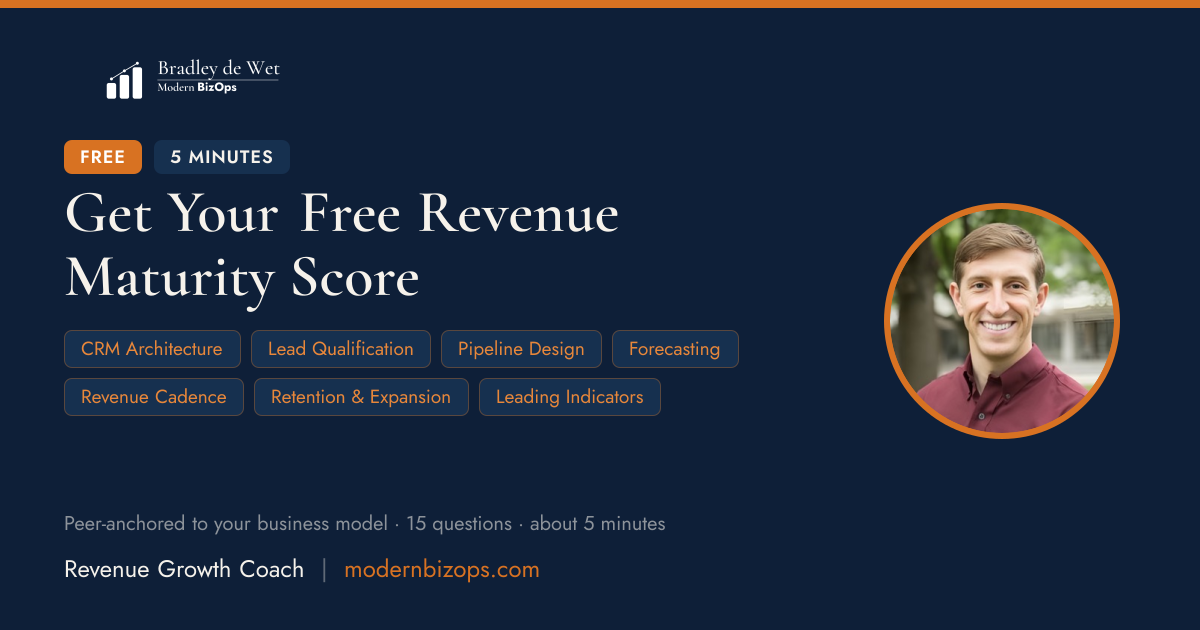
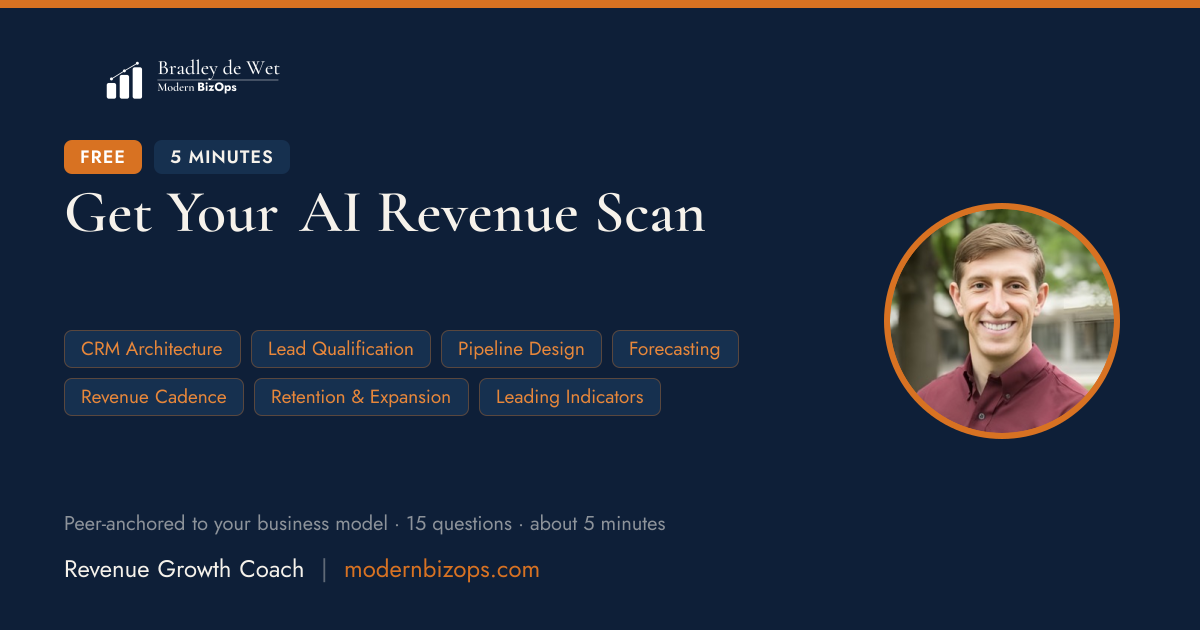
fix(scan): regenerate the share card and cover the restore-discard path
The og-scorecard.png card still read "Get Your Free Revenue Maturity Score",
so every LinkedIn, Slack and X share of the site's primary call to action
rendered the retired product name, and the alt text this branch already
changed contradicted the image it described. The card now reads "Get Your AI
Revenue Scan"; "Free" is carried by the FREE pill above the headline, which is
what keeps it on one line at the default 60px. scorecardCard gained the
headlineSize prop heroCard and learnCard already had, so the next copy change
can tune it without editing the template. The changed flag is back to false,
matching every other card, and only og-scorecard.png differs: the eight other
cards still flagged changed regenerated byte-identical.

QuizFlow's restore-discard branch was new user-affecting behaviour with no
test. Five cases now cover it, including that an already-computed result
survives and that a session with only live answers still resumes untouched.
Both halves were mutation-checked: reverting the option-value check fails one,
removing the discard branch fails two.

Also matches the pricing page to the sitewide "Get the Free Scan" casing, and
updates the api-submit pageName fixture, which modelled a document title the
site can no longer produce.

Changed region(s): [[0.2467, 0.3016, 0.5858, 0.3921], [0.0617, 0.3921, 0.3392, 0.4825], [0.1542, 0.3317, 0.2158, 0.3619]]

diff --git a/__tests__/scorecard/components/QuizFlow.test.jsx b/__tests__/scorecard/components/QuizFlow.test.jsx
@@ -118,3 +118,108 @@ describe('QuizFlow sessionStorage persistence', () => {
     expect(screen.getByText(/Which best describes how your business sells/)).toBeInTheDocument();
   });
 });
+
+// The revenue bands were realigned to the /book set, retiring 3m_7m, 7m_15m and
+// over_15m. A session persisted before that deploy holds a q1 value no option
+// matches, and every ROI generator guards on `if (!revenue) return null`, so
+// resuming onto it would hand the visitor a no-gap result with nothing logged
+// anywhere. These cover the discard path that prevents it.
+describe('QuizFlow restore discards answers on retired option values', () => {
+  const RETIRED_BAND = '7m_15m';
+
+  beforeEach(() => {
+    sessionStorage.clear();
+  });
+
+  it('restarts an in-progress session whose stored revenue band was retired', () => {
+    sessionStorage.setItem(
+      'scorecard:state',
+      JSON.stringify({
+        answers: { q1: { value: RETIRED_BAND }, q2: { value: 'B2B_SAAS' } },
+        step: 'questions',
+        currentIndex: 2,
+      })
+    );
+    render(<QuizFlow utms={{}} />);
+    // Back at q1, not resumed at index 2, and nothing is pre-selected.
+    expect(screen.getByText('Annual revenue')).toBeInTheDocument();
+    expect(screen.getByRole('button', { name: /next/i })).toBeDisabled();
+    for (const radio of screen.getAllByRole('radio')) {
+      expect(radio).not.toBeChecked();
+    }
+  });
+
+  it('does not offer the retired band as an option after the restart', () => {
+    sessionStorage.setItem(
+      'scorecard:state',
+      JSON.stringify({
+        answers: { q1: { value: RETIRED_BAND } },
+        step: 'questions',
+        currentIndex: 0,
+      })
+    );
+    render(<QuizFlow utms={{}} />);
+    const values = screen.getAllByRole('radio').map((r) => r.getAttribute('value'));
+    expect(values).not.toContain(RETIRED_BAND);
+    expect(values).toEqual(['under_1m', '1m_3m', '3m_5m', '5m_15m', '15m_50m', '50m_plus']);
+  });
+
+  it('keeps an already-computed result, which does not depend on the stale answer', () => {
+    const result = {
+      headline: { lead: 'Your operating system is leaving between $1M and $2M on the table this year.', subline: 'subline', floorDollars: 1_000_000, medianDollars: 2_000_000, modelLabel: 'B2B SaaS' },
+      roiLines: [],
+      comparisons: [],
+      placement: { stage: 1, name: 'Reactive', descriptor: 'desc' },
+      nextStage: null,
+      competencyScores: [],
+      binding: null,
+      brightSpots: [],
+      disclosure: 'disclosure',
+      cta: {
+        destination: '/ai-readiness-assessment',
+        heading: 'The AI Revenue Audit',
+        cardLines: ['a', 'b', 'c', 'd'],
+        buttonLabel: 'See the AI Revenue Audit',
+      },
+      modelLabel: 'B2B SaaS',
+      benchmarkVersion: '1.2',
+      generatedAt: 'now',
+    };
+    sessionStorage.setItem(
+      'scorecard:state',
+      JSON.stringify({ answers: { q1: { value: RETIRED_BAND } }, step: 'result', currentIndex: 14, result })
+    );
+    render(<QuizFlow utms={{}} />);
+    expect(screen.getByText(/leaving between \$1M and \$2M/i)).toBeInTheDocument();
+    expect(screen.queryByText('Annual revenue')).not.toBeInTheDocument();
+  });
+
+  it('still drops an answer to a question the current answers hide', () => {
+    // q15 (churn) is hidden for B2B_PRODUCT. The pre-existing prune behaviour
+    // has to survive the widening to option values.
+    sessionStorage.setItem(
+      'scorecard:state',
+      JSON.stringify({
+        answers: { q1: { value: 'under_1m' }, q2: { value: 'B2B_PRODUCT' }, q15: { value: 'over_30' } },
+        step: 'questions',
+        currentIndex: 2,
+      })
+    );
+    render(<QuizFlow utms={{}} />);
+    // q15 was dropped, so this counts as a discard and the quiz restarts.
+    expect(screen.getByText('Annual revenue')).toBeInTheDocument();
+  });
+
+  it('resumes untouched when every stored answer is still live', () => {
+    sessionStorage.setItem(
+      'scorecard:state',
+      JSON.stringify({
+        answers: { q1: { value: '5m_15m' }, q2: { value: 'B2B_SAAS' } },
+        step: 'questions',
+        currentIndex: 2,
+      })
+    );
+    render(<QuizFlow utms={{}} />);
+    expect(screen.getByText('Total team size')).toBeInTheDocument();
+  });
+});

diff --git a/__tests__/scorecard/api-submit.test.js b/__tests__/scorecard/api-submit.test.js
@@ -60,7 +60,7 @@ function fixtureBody() {
     utms: { utm_source: 'linkedin', utm_medium: 'social', utm_campaign: 'maturity-scorecard' },
     hutk: 'cookie-xyz',
     pageUri: 'https://modernbizops.com/scorecard?utm_source=linkedin',
-    pageName: 'Revenue Growth Scorecard',
+    pageName: 'AI Revenue Scan: Free 5-Minute Diagnostic | Modern BizOps',
     answers: {
       q1: { value: '5m_15m' },
       q2: { value: 'PROFESSIONAL_SERVICES' },
@@ -96,7 +96,7 @@ describe('POST /api/scorecard/submit', () => {
         context: expect.objectContaining({
           hutk: 'cookie-xyz',
           pageUri: 'https://modernbizops.com/scorecard?utm_source=linkedin',
-          pageName: 'Revenue Growth Scorecard',
+          pageName: 'AI Revenue Scan: Free 5-Minute Diagnostic | Modern BizOps',
         }),
       })
     );

diff --git a/app/pricing/page.js b/app/pricing/page.js
@@ -32,7 +32,7 @@ const { url: URL, description: DESCRIPTION } = PAGE;
 // from lib/offers.js.
 const LADDER_NOTES = {
   scan: {
-    linkLabel: "Get the free Scan",
+    linkLabel: "Get the Free Scan",
     note: "No call, no card, and no obligation to do anything with the result.",
   },
   audit: {
